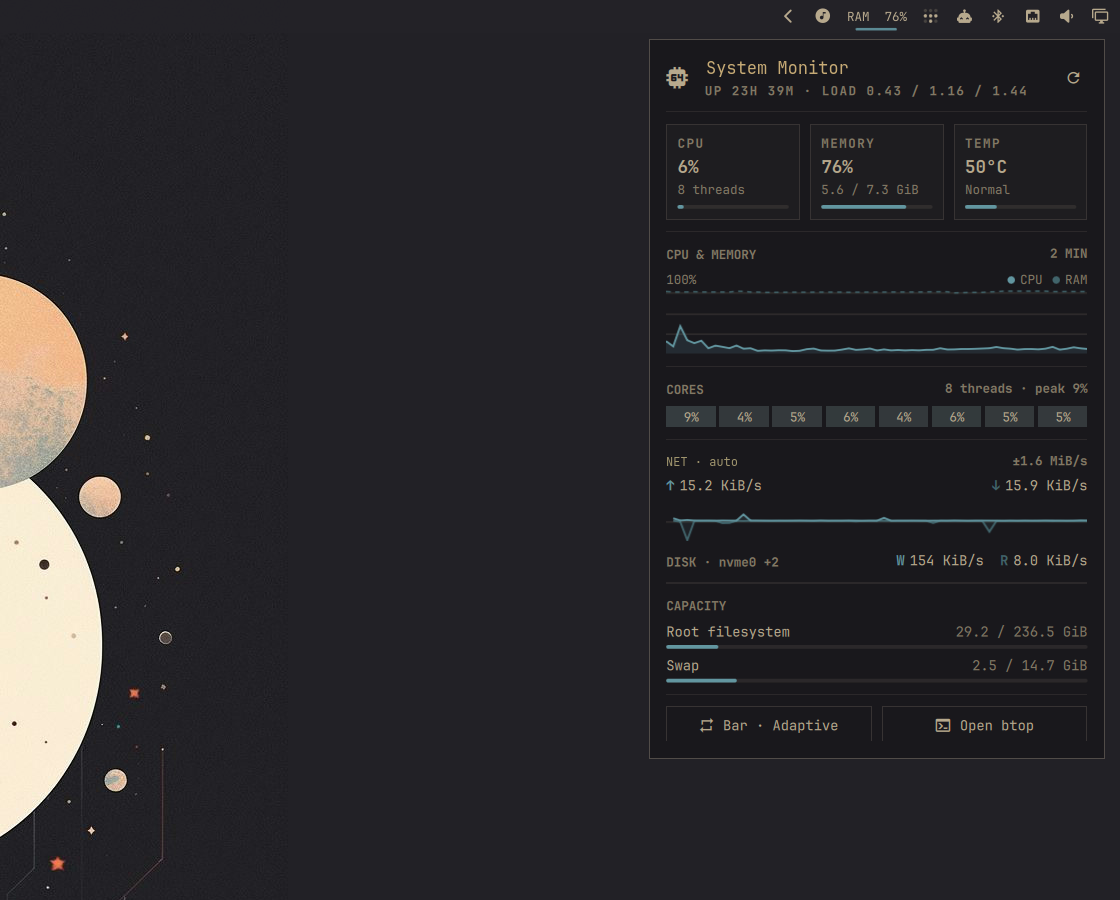
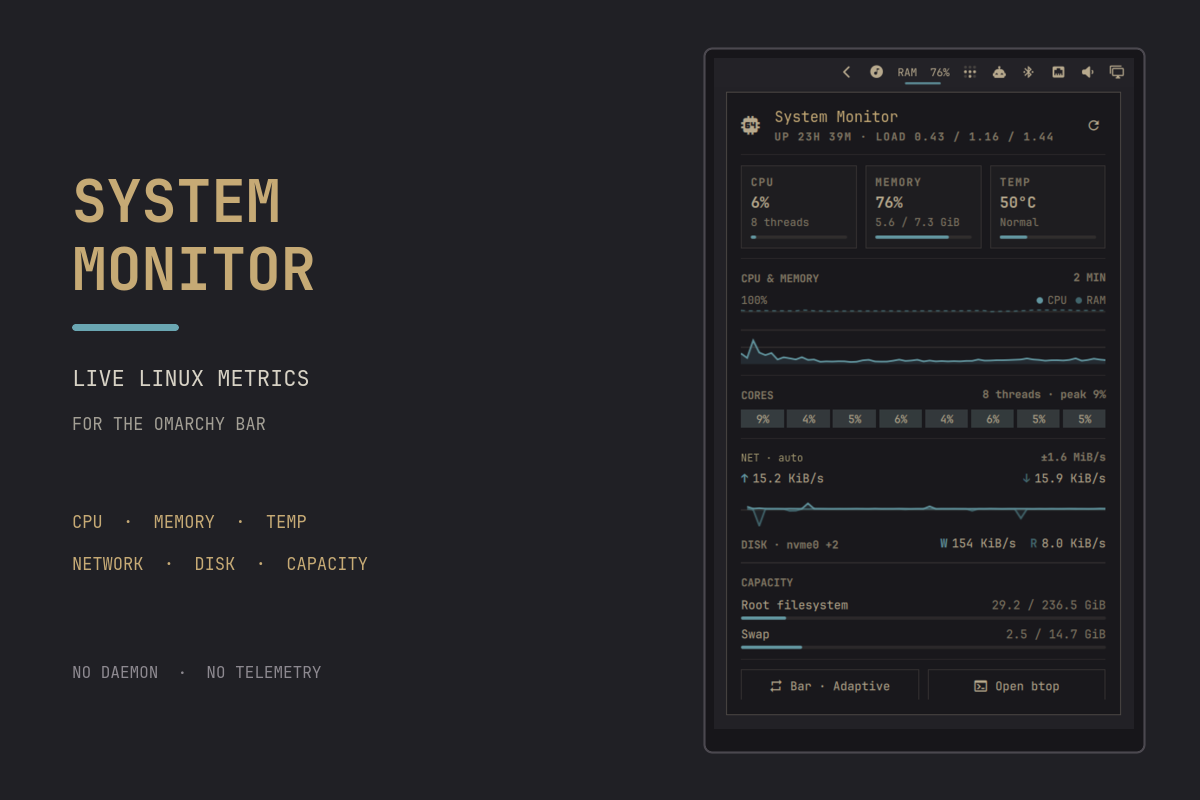
Refine marketplace preview asset

diff --git a/README.md b/README.md
@@ -8,9 +8,9 @@ A low-overhead dashboard for the Omarchy bar. System Monitor reads Linux
 metrics directly from `/proc` and `/sys`, so it stays responsive without a
 background daemon or telemetry service.
 
-![System Monitor open on an empty Omarchy workspace](preview.png)
+![System Monitor dashboard preview](preview.png)
 
-<p align="center"><sub>Live Omarchy capture; hostname and network interface label anonymized.</sub></p>
+<p align="center"><sub>Built from a live Omarchy capture; system identifiers anonymized.</sub></p>
 
 ## Highlights
 
